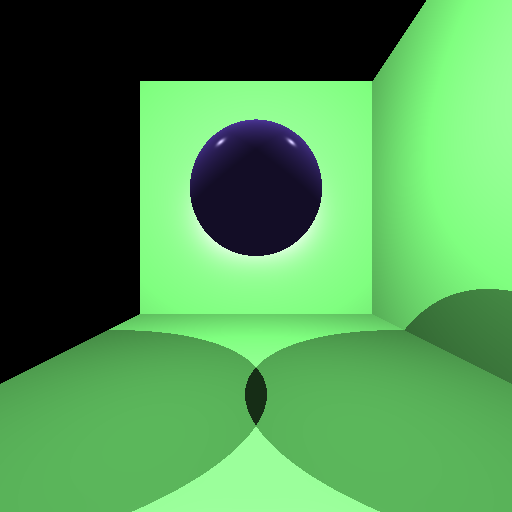
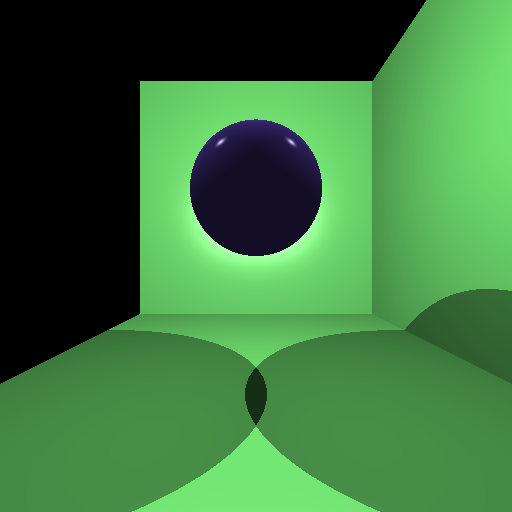
fixed color bug in diffuse illumination component

diff --git a/lab3b/src/main/java/at/ac/univie/unet/a01638800/raytracer/scene/Raytracer.java b/lab3b/src/main/java/at/ac/univie/unet/a01638800/raytracer/scene/Raytracer.java
@@ -2,6 +2,7 @@ package at.ac.univie.unet.a01638800.raytracer.scene;
 
 import at.ac.univie.unet.a01638800.raytracer.geometry.Color;
 import at.ac.univie.unet.a01638800.raytracer.geometry.Ray;
+import at.ac.univie.unet.a01638800.raytracer.geometry.Vector;
 import at.ac.univie.unet.a01638800.raytracer.scene.intersection.Intersection;
 import at.ac.univie.unet.a01638800.raytracer.scene.phong.IlluminationMode;
 import at.ac.univie.unet.a01638800.raytracer.scene.phong.PhongShader;
@@ -58,7 +59,7 @@ public class Raytracer {
 
                 // check surface reflectance
                 if (reflectance > 0D) {
-                    Ray reflectedRay = this.getReflectedRay();
+                    Ray reflectedRay = this.getReflectedRay(ray, cameraRayIntersection);
                     reflectedColor = traceRay(reflectedRay, bounce + 1).multiplyByFactor(reflectance);
                 }
 
@@ -129,8 +130,15 @@ public class Raytracer {
         return color;
     }
 
-    private Ray getReflectedRay() {
-        // TODO implement
+    private Ray getReflectedRay(Ray incidentRay, Intersection intersection) {
+        Vector lVector = incidentRay.getDirection().normalize();
+        Vector nVector = intersection.getNormal();
+
+        Vector rVector = nVector.scaleByFactor(2.0 * (lVector.invert()).dotProduct(nVector)).addVector(lVector);
+
+        Ray reflectedRay = new Ray();
+        reflectedRay.setOrigin(intersection.getIntersectionPoint());
+        reflectedRay.setDirection(rVector.normalize());
 
         return new Ray();
     }

diff --git a/lab3b/src/main/java/at/ac/univie/unet/a01638800/raytracer/scene/phong/PhongShader.java b/lab3b/src/main/java/at/ac/univie/unet/a01638800/raytracer/scene/phong/PhongShader.java
@@ -97,7 +97,6 @@ public class PhongShader {
             );
 
             pointToLightVector = pointToLightVector.invert();
-
         } else if (illuminate == IlluminationMode.POINT) {
             // scene lighting is of type point light
             final XmlPointLight pointLight = (XmlPointLight) light;
@@ -186,7 +185,7 @@ public class PhongShader {
         if (illuminate == IlluminationMode.AMBIENT) {
             final double materialAmbientComponent = Double.parseDouble(materialSolid.getPhong().getKa());
 
-            return objectColor.multiplyByFactor(materialAmbientComponent);
+            return objectColor.multiplyByColor(lightColor).multiplyByFactor(materialAmbientComponent);
         }
         return new Color();
     }
@@ -214,6 +213,7 @@ public class PhongShader {
         final double diffuseFactor = Math.min(Math.max(0.0, normalVector.dotProduct(pointToLightVector)), 1.0);
 
         return objectColor
+                .multiplyByColor(lightColor)
                 .multiplyByFactor(materialDiffuseComponent)
                 .multiplyByFactor(diffuseFactor);
     }

diff --git a/lab3b/src/main/java/at/ac/univie/unet/a01638800/raytracer/geometry/Color.java b/lab3b/src/main/java/at/ac/univie/unet/a01638800/raytracer/geometry/Color.java
@@ -61,6 +61,10 @@ public class Color {
         return new Color(inRange(getR() + color.getR()), inRange(getG() + color.getG()), inRange(getB() + color.getB()));
     }
 
+    public Color multiplyByColor(final Color color) {
+        return new Color(inRange(getR() * color.getR()), inRange(getG() * color.getG()), inRange(getB() * color.getB()));
+    }
+
     private double inRange(final double value) {
         return Math.max(Math.min(value, 1.0), 0.0);
     }

diff --git a/lab3b/src/main/java/at/ac/univie/unet/a01638800/raytracer/Main.java b/lab3b/src/main/java/at/ac/univie/unet/a01638800/raytracer/Main.java
@@ -12,6 +12,8 @@ import at.ac.univie.unet.a01638800.raytracer.writer.ImageWriterException;
 import at.ac.univie.unet.a01638800.raytracer.xml.scene.XmlMesh;
 import at.ac.univie.unet.a01638800.raytracer.xml.scene.XmlScene;
 import at.ac.univie.unet.a01638800.raytracer.xml.scene.XmlSphere;
+import org.apache.commons.collections4.CollectionUtils;
+
 import java.io.File;
 import java.nio.file.Path;
 import java.util.List;
